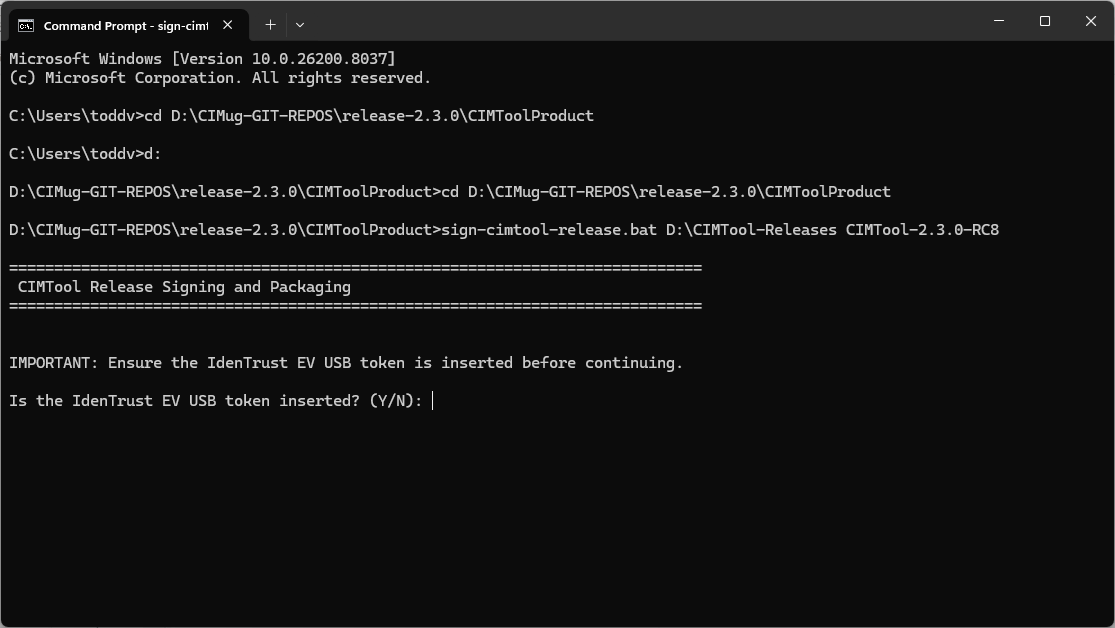
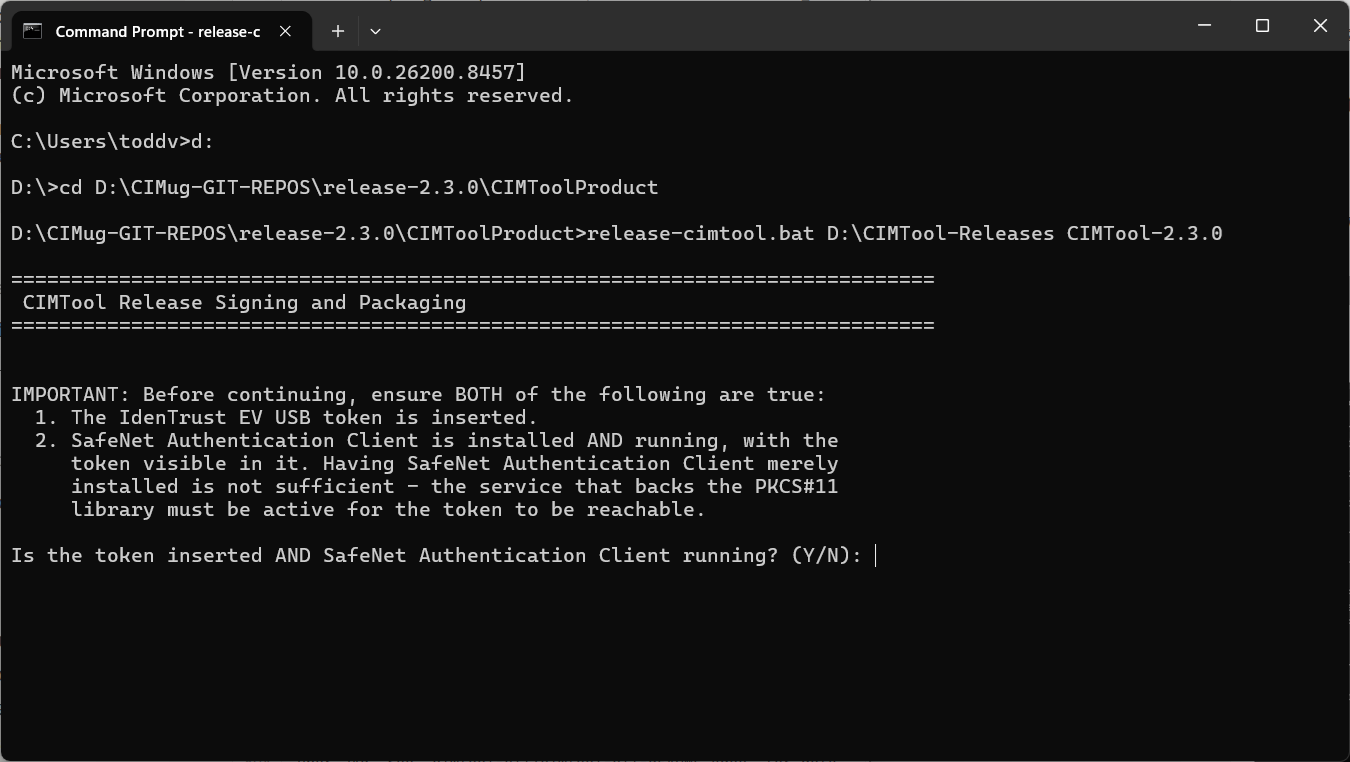
Dev doc updates related to code signing

diff --git a/dev-docs/Styles/cimtool-adoc.css b/dev-docs/Styles/cimtool-adoc.css
@@ -424,3 +424,27 @@ body.book #toc,body.book #preamble,body.book h1.sect0,body.book .sect1>h2{page-b
 #footer{background:none}
 #footer-text{color:rgba(0,0,0,.6);font-size:.9em}}
 @media amzn-kf8{#header,#content,#footnotes,#footer{padding:0}}
+/* ============================================================================
+   CIMug logo banner at the top of the left-hand TOC sidebar.
+   Applies only to the HTML 'toc: left' layout (#toc.toc2), which exists at the
+   >=768px breakpoint. The logo is embedded as a data URI so it resolves with no
+   dependency on the output path or on whether the stylesheet is linked/embedded.
+   The banner is sized as a percentage of the sidebar width with a locked aspect
+   ratio (padding-top = 80% width x 62.37/144.58), so it scales up and down with
+   the sidebar at every breakpoint instead of staying a fixed pixel size.
+   Centered within the sidebar.
+   ============================================================================ */
+@media screen and (min-width:768px){
+  #toc.toc2::before{
+    content:"";
+    display:block;
+    width:80%;
+    height:0;
+    padding-top:34.5%;
+    margin:0 0 1.25em;
[1 lines of base64/hex data omitted]
+    background-repeat:no-repeat;
+    background-position:left center;
+    background-size:contain;
+  }
+}

diff --git a/dev-docs/Includes/cimtool-cli/cimtool-cli-README.md b/dev-docs/Includes/cimtool-cli/cimtool-cli-README.md
@@ -17,7 +17,7 @@ This project is a **packaging-only** Maven module. It contains no Java source of
 its own. Its sole purpose is to:
 
 1. Collect `kena.jar` and `cimutil.jar` from a CIMTool Eclipse PDE product export
-2. Collect all vendored third-party JARs from `Kena/lib/`, `CIMUtil/lib/`, and `CIMToolPlugin/lib/`, together with the SLF4J 2.x / Logback provider bundles from the PDE product export `plugins/` directory
+2. Collect all vendored third-party JARs from `Kena/lib/` and `CIMUtil/lib/`
 3. Embed the XSLT builder stylesheets and Java builder configurations from `CIMUtil/builders/` at the classpath root
 4. Merge everything into a single executable uber JAR via Maven Shade
 
@@ -107,13 +107,13 @@ CIMTool/
 
 ## Dependency Management — Local File Repository
 
+> **Note — Keeping vendored dependencies in sync:** When a third-party dependency used by the CLI is added, removed, or upgraded, update `pom.xml`, both `install-jars.bat` and `install-jars.sh`, and regenerate `lib-repo/` together in the same change. See the [Vendored Library Change Checklist](../CIMToolProduct/CIMToolProduct-README.md#maintaining-vendored-third-party-libraries) in the CIMToolProduct documentation for the full repository-wide reference chain.
+
 ### Why a Local Maven File Repository?
 
-All of this project's dependencies are vendored JARs that live under `Kena/lib/`,
-`CIMUtil/lib/`, and `CIMToolPlugin/lib/` in the Eclipse PDE project tree, plus
-`kena.jar` and `cimutil.jar` and the SLF4J 2.x / Logback provider bundles
-(`slf4j-api`, `logback-core`, `logback-classic`) sourced from the CIMTool Eclipse
-PDE product export `plugins/` directory.
+All of this project's dependencies are vendored JARs that live under `Kena/lib/`
+and `CIMUtil/lib/` in the Eclipse PDE project tree, plus `kena.jar` and
+`cimutil.jar` sourced from the CIMTool Eclipse PDE product export.
 None of these are published to Maven Central.
 
 Maven's `system` scope (the most obvious way to reference local JARs) is formally
@@ -192,13 +192,12 @@ also install the vendor JARs:
   Install vendor JARs? (Y/N): _
 ```
 
-The script processes all 27 dependencies in four groups:
+The script processes all 26 dependencies in three groups:
 
 | Group                       | Count | Source                                      |
 | --------------------------- | ----- | ------------------------------------------- |
 | CIMTool core modules        | 2     | Eclipse PDE product export `plugins/` directory |
 | Kena/lib vendored JARs      | 9     | `Kena/lib/*.jar`                            |
-| SLF4J 2.x / Logback / JUL bridge | 4 | PDE export `plugins/` (slf4j-api, logback-core, logback-classic) + `CIMToolPlugin/lib/` (jul-to-slf4j) |
 | CIMUtil/lib vendored JARs   | 12    | `CIMUtil/lib/*.jar`                         |
 
 If a JAR file is not found at its expected path, the script prints `[MISSING]` and
@@ -281,8 +280,7 @@ Do not run `mvn clean package` directly for official releases. See
 | ----------------------- | ------------------------------------------------------------------------------------- |
 | `kena.jar` (from PDE export) | Kena RDF/OWL abstraction layer over Apache Jena              |
 | `cimutil.jar` (from PDE export) | Core CIMTool processing: profiles, XMI import, validation, XSLT transforms |
-| `Kena/lib/*.jar`        | Apache Jena 2.6.3, ARQ 2.8.4, IRI 0.8, Xerces 2.7.1, ICU4J 71.1, Lucene Core 2.3.1, StAX API 1.0.1, Woodstox 3.2.9, log4j-over-slf4j 2.0.17 (Log4j 1.x → SLF4J bridge) |
-| PDE export `plugins/` + `CIMToolPlugin/lib/` | slf4j-api 2.0.17, logback-classic 1.5.32, logback-core 1.5.32 (SLF4J 2.x logging provider), jul-to-slf4j 2.0.17 (JUL → SLF4J bridge) |
+| `Kena/lib/*.jar`        | Apache Jena 2.6.3, ARQ 2.8.4, Xerces 2.7.1, ICU4J 71.1, Lucene Core 2.3.1, StAX API 1.0.1, Woodstox 3.2.9, log4j-over-slf4j 2.0.17 (Log4j 1.x → SLF4J bridge) |
 | `CIMUtil/lib/*.jar`     | Saxon-HE 10.8, Easy-Rules 4.1.0, Apache POI 3.9, Jackcess 2.2.3, UCanAccess 4.0.4, HSQLDB 2.3.6, SQLite JDBC 3.45.2.0, Gson 2.8.6, commons-lang 2.6, commons-logging 1.1.3, xml-resolver 1.2 |
 | `CIMUtil/builders/`     | `builders.json`, `java-builders.json`, all XSLT stylesheets (`*.xsl`), `includes/`, `adoc-themes/` |
 | `CIMUtil/import-reports/` | AsciiDoc report templates (`asciidoc/`), PlantUML styles (`puml/`), schema config (`schema/`) |
@@ -485,7 +483,7 @@ The debug configuration enables the following:
 | `au.com.langdale.xmi` | `TRACE` | Per-attribute and per-class resolution detail in `parseAttributes()` and `parseClasses()`; CIM model interpretation stages in `CIMInterpreterImpl`; datatype inference in `UMLInterpreter`; JDBC connection errors in `EAPParser` and `QEAParser` |
 | `au.com.langdale.profiles.cl` | `DEBUG` | `CLISchemaParser` schema import events (orphaned classes, unused types) suppressed at `WARN` in production |
 | `net.ucanaccess`, `org.hsqldb` | `ERROR` | UCanAccess and HSQLDB reserved-word noise remains suppressed |
-| root | `WARN` | Keeps third-party library output (Saxon, Jena, etc.) quiet so the targeted `au.com.langdale.*` output is not buried in noise; change to `DEBUG` if broader framework-level diagnostics are needed |
+| root | `DEBUG` | All other CIMTool packages |
 
 
 ### Capturing log output to a file
@@ -572,10 +570,8 @@ a JAR came from a specific publisher and that its contents have not been tampere
 with since signing. The signature is mathematically bound to the exact byte contents
 of the original JAR file.
 
-**Why stripping is necessary and unavoidable:** When Maven Shade merges all 27
-contributing JARs — the 2 CIMTool core modules (`kena.jar` and `cimutil.jar`) plus
-the 25 vendored third-party JARs — into one uber JAR, the contents of each
-contributing JAR are extracted and repacked into
+**Why stripping is necessary and unavoidable:** When Maven Shade merges 25 JARs into
+one uber JAR, the contents of each contributing JAR are extracted and repacked into
 a new ZIP structure. This invalidates every original signature unconditionally —
 regardless of whether anything malicious occurred. There is no way to produce a
 valid shaded uber JAR that preserves the original signatures. The only two outcomes

diff --git a/dev-docs/Includes/CIMToolPlugin/CIMToolPlugin-README.md b/dev-docs/Includes/CIMToolPlugin/CIMToolPlugin-README.md
@@ -54,9 +54,16 @@ CIMToolPlugin/
 ├── js/                           ← Bundled JavaScript libraries (air-gap safe; no CDN dependency)
 │   ├── svg-pan-zoom.js           ← svg-pan-zoom 3.6.2 — pan/zoom for the PlantUML Real-Time Preview SVG view
 │   └── README.md                 ← Documents the bundled svg-pan-zoom version and source
-├── icons/                        ← Toolbar, view, wizard, and editor icons (PNG/BMP)
-├── graphics/                     ← SVG icon sources for profile diagram elements (e.g. `class.svg`, `aggregate.svg`, …)
-├── makeicons.sh                  ← Script to regenerate icon assets from the SVG sources
+├── builders/                     ← XSLT builder stylesheets and supporting resources
+│   └── includes/                 ← Shared XSLT includes used across builders
+├── import-reports/               ← AsciiDoc templates and stylesheets for the audit/compliance
+│   │                               report generated into the project's /Schema folder
+│   ├── asciidoc/
+│   │   ├── includes/
+│   │   ├── styles/
+│   │   └── themes/
+│   ├── puml/                     ← PlantUML templates for diagram generation
+│   └── schema/                   ← JSON/XML schemas for report configuration
 └── src/
     └── au/com/langdale/
         ├── cimtoole/             ← Main plugin package
@@ -115,9 +122,11 @@ It also depends on the following standard Eclipse platform bundles:
 | `org.eclipse.ui.themes` | Eclipse theming and colour/font registry — `IThemeManager`, `ColorRegistry`, `FontRegistry` for consistent UI styling |
 | `org.eclipse.core.filesystem` | Abstraction over file system access — `IFileStore`, `EFS`, used for file operations that span local and remote file systems |
 | `net.sourceforge.plantuml.library` | PlantUML rendering library — generates SVG diagrams from `.puml` source in the Real-Time Preview pipeline. Declared as a hard `Require-Bundle` dependency. |
-| `net.sourceforge.plantuml.eclipse` | PlantUML Eclipse integration bundle — provides the Eclipse-side PlantUML API, including the `PlantUmlSvgView` that backs the "CIMTool PlantUML Svg" view. Declared as a hard `Require-Bundle` dependency. |
+| `net.sourceforge.plantuml.eclipse` | PlantUML Eclipse integration bundle — provides the Eclipse-side PlantUML API. Declared as `resolution:=optional` since the feature degrades gracefully when absent. |
 
 ### Vendored Third-Party Libraries
+
+> **Note — Keeping vendored libraries in sync:** Adding, removing, or upgrading any library listed in this section must be mirrored in the same change across this project's `META-INF/MANIFEST.MF` (`Bundle-ClassPath`), `build.properties`, and `.classpath`, as well as the repository-wide reference chain. See the [Vendored Library Change Checklist](../CIMToolProduct/CIMToolProduct-README.md#maintaining-vendored-third-party-libraries) in the CIMToolProduct documentation.
 
 The following JARs are included directly in the plugin bundle via `Bundle-ClassPath`
 in `MANIFEST.MF` (not resolved from the target platform):
@@ -154,10 +163,10 @@ CIMToolPlugin contributes to the following Eclipse platform extension points via
 | `org.eclipse.core.resources.builders` | Registers `CIMBuilder` as an incremental project builder that runs automatically on workspace resource changes to produce all configured CIM profile output artefacts |
 | `org.eclipse.core.resources.natures` | Registers `CIMNature` as the Eclipse project nature that marks a project as a CIMTool project and associates it with `CIMBuilder` |
 | `org.eclipse.core.resources.markers` | Defines CIMTool-specific problem markers used to display build errors and validation warnings in the Eclipse Problems view and editor gutter |
-| `org.eclipse.core.contenttype.contentTypes` | Declares a file association binding the `xml-log` file extension to the platform `org.eclipse.core.runtime.text` content type. CIMTool's own editor file extensions (e.g. `.owl`, `.xmi`) are bound directly in the `org.eclipse.ui.editors` contribution rather than here |
+| `org.eclipse.core.contenttype.contentTypes` | Registers CIMTool file content types (e.g. `.xmi`, `.owl`, `.profile`) so Eclipse can associate them with the correct editors and handlers |
 | `org.eclipse.ui.perspectives` | Registers the CIMTool Perspective, CIMTool Browsing Perspective, and Validation Perspective — defines the initial layout of views, editors, and toolbars for each |
 | `org.eclipse.ui.editors` | Registers multi-page editors for CIM profiles, model artefacts, mappings, diagnosis output, and repair files, bound to their respective content types |
-| `org.eclipse.ui.views` | Registers the Project Model, Documentation, and Validation views, the Profile Preview view (`CurrentProfilePlantUmlSvgView` — the PlantUML Real-Time Preview), and the "CIMTool PlantUML Svg" view (backed by `net.sourceforge.plantuml.eclipse`'s `PlantUmlSvgView`) as Eclipse workbench views |
+| `org.eclipse.ui.views` | Registers the Project Model view, Documentation view, and Validation view as Eclipse workbench views |
 | `org.eclipse.ui.importWizards` | Registers import wizards for EA projects, XMI models, schemas, profiles, rulesets, spreadsheets, and transform builders under the CIMTool category |
 | `org.eclipse.ui.newWizards` | Registers new-resource wizards for creating CIMTool projects, profiles, mappings, rulesets, and other CIMTool artefact types |
 | `org.eclipse.ui.exportWizards` | Registers the schema export wizard under the CIMTool category |
@@ -261,9 +270,7 @@ defaults are set in `PlantUMLBuildersPreferencesPage`.
 
 `net.sourceforge.plantuml.library` is a hard `Require-Bundle` dependency —
 the buildlet calls the PlantUML API directly. `net.sourceforge.plantuml.eclipse`
-is also a hard `Require-Bundle` dependency; the real-time preview pipeline does not
-call it directly, but it provides the `PlantUmlSvgView` that backs the separate
-"CIMTool PlantUML Svg" view registered in `plugin.xml`.
+is `resolution:=optional` and is not used by the preview pipeline.
 
 
 

diff --git a/dev-docs/Includes/CIMUtil/CIMUtil-README.md b/dev-docs/Includes/CIMUtil/CIMUtil-README.md
@@ -23,7 +23,7 @@ The key functional areas are:
 
 - **XMI / EA project import** — parses Sparx Enterprise Architect `.eap`, `.eapx`, `.qea`, and `.qeax` project files (via UCanAccess / SQLite JDBC) and XMI exports into an RDF ontology graph via Kena
 - **Profile model** — the CIM profile object model (`ProfileClass`, `ProfileModel`, `HierarchyModel`) and profile manipulation operations (reorganize, refactor, rename, remap, repair)
-- **XSLT transform engine** — 32 XSLT builders in `builders/` that generate diverse output artefacts (XSD, RDFS, OWL, JSON Schema, HTML, RTF, SQL, Java, Scala, C#, Avro, LinkML, PlantUML, AsciiDoc, and more) from a CIM profile
+- **XSLT transform engine** — 34 XSLT builders in `builders/` that generate diverse output artefacts (XSD, RDFS, OWL, JSON Schema, HTML, RTF, SQL, Java, Scala, C#, Avro, LinkML, PlantUML, AsciiDoc, and more) from a CIM profile
 - **Validation** — CIM/XML and Turtle instance document validation against a profile using a Jena rules engine
 - **CIM Modelling Guide compliance** — an Easy Rules engine with 100+ rules implementing the IEC CIM Modelling Guidelines, used to generate the audit/compliance report
 - **CLI entry point** — `CIMToolCLI` and supporting classes in `profiles.cl` provide a headless command-line interface for profile transformation
@@ -39,11 +39,10 @@ CIMUtil/
 ├── build.properties                   ← PDE build configuration — source JAR, bin.includes
 ├── lib/                               ← Vendored third-party JARs (see Dependencies section)
 ├── builders/                          ← XSLT stylesheets and supporting resources
-│   ├── builders.json                  ← XSLT builder registry — maps the 32 registered XSLT builders to styles and output extensions
-│   ├── java-builders.json             ← JAVA builder registry — maps the 8 JAVA-based builders executed by cimtool-cli (see Builder Stylesheets section)
+│   ├── builders.json                  ← Builder registry — maps builder IDs to XSLT styles and output extensions
 │   ├── includes/                      ← Shared XSLT includes (e.g. namespace definitions)
 │   ├── adoc-themes/                   ← AsciiDoc theme files for report generation
-│   ├── *.xsl                          ← XSLT builder stylesheets — the 32 builders registered in builders.json plus additional experimental/legacy stylesheets that are not registered
+│   ├── *.xsl                          ← 34 XSLT builder stylesheets (see Builder Stylesheets section)
 │   └── default-copyright-template-*.txt ← Default copyright header templates
 ├── import-reports/                    ← AsciiDoc templates for the CIM Modelling Guide
 │   │                                     audit/compliance report generated into /Schema
@@ -144,6 +143,8 @@ CIMUtil has a single OSGi `Require-Bundle` dependency on another in-repository p
 
 ### Vendored Third-Party Libraries
 
+> **Note — Keeping vendored libraries in sync:** Adding, removing, or upgrading any library listed in this section must be mirrored in the same change across this project's `META-INF/MANIFEST.MF` (`Bundle-ClassPath`), `build.properties`, and `.classpath`, as well as the repository-wide reference chain. See the [Vendored Library Change Checklist](../CIMToolProduct/CIMToolProduct-README.md#maintaining-vendored-third-party-libraries) in the CIMToolProduct documentation.
+
 The following JARs are declared in `Bundle-ClassPath` in `MANIFEST.MF` and included in the plugin bundle:
 
 | Library | Version | Purpose |
@@ -167,11 +168,7 @@ Three additional Easy Rules extension JARs are physically present in `lib/` but 
 
 ## Builder Stylesheets
 
-The `builders/` directory contains 32 XSLT stylesheets registered in `builders.json`. Each transforms a CIM profile's internal XML representation into a specific output artefact format. The builders are executed by Saxon HE 10.8 and are all XSLT 3.0 compliant unless otherwise noted. For detailed documentation on individual builders, their NTE (Name/Type/Extension) settings, and usage guidance see the [CIMTool Builders Library](https://cimtool-builders.ucaiug.io/).
-
-The directory also contains additional experimental and legacy `.xsl` stylesheets that are not registered in `builders.json`. These are not active builders and are not documented here.
-
-A second registry, `java-builders.json`, declares 8 **JAVA**-type builders that are implemented directly by CIMUtil Java generator classes rather than by XSLT stylesheets. They produce the OWL, RDFS, Turtle, and canonical profile-XML serializations and are registered for execution by `cimtool-cli`; see the [cimtool-cli README](../cimtool-cli/cimtool-cli-README.md) for details. Because they are not XSLT, they are not listed in the stylesheet table below.
+The `builders/` directory contains 34 XSLT stylesheets registered in `builders.json`. Each transforms a CIM profile's internal XML representation into a specific output artefact format. The builders are executed by Saxon HE 10.8 and are all XSLT 3.0 compliant unless otherwise noted. For detailed documentation on individual builders, their NTE (Name/Type/Extension) settings, and usage guidance see the [CIMTool Builders Library](https://cimtool-builders.ucaiug.io/).
 
 | Stylesheet | Output Extension | Description |
 | --- | --- | --- |
@@ -183,7 +180,9 @@ A second registry, `java-builders.json`, declares 8 **JAVA**-type builders that 
 | `profile-doc-rtf.xsl` | `.rtf` | Generates a Microsoft Word compatible RTF (Rich Text Format) document containing complete documentation for all classes, attributes, and associations in a profile. The output can be opened directly in Microsoft Word for further editing or distribution. |
 | `json-schema-draft-07.xsl` | `.draft-07.schema.json` | Generates a JSON Schema compliant with the draft [IEC 62361-104](https://webstore.iec.ch/publication/67199) standard (CIM Profiles to JSON Schema Mapping). Targets JSON Schema draft-07 specification. Suitable for use with JSON Schema validators and code generation tools that support draft-07. |
 | `json-schema-draft-2020-12.xsl` | `.draft-2020-12.schema.json` | Generates a JSON Schema compliant with the draft IEC 62361-104 standard targeting the JSON Schema draft-2020-12 specification. Use this builder when your toolchain supports the newer 2020-12 vocabulary. |
-| `apache-avro-schema-beta.xsl` | `.beta.avsc` | Generates an Apache Avro schema for a profile, enabling compact binary serialization of CIM instance data in high-throughput data pipeline contexts. Suitable for use with Kafka, Spark, and other Avro-compatible data platforms. |
+| `json-ld-context-json-beta.xsl` | `.context-json-beta.jsonld` | Generates a JSON-LD context document derived from a JSON Schema profile, enabling RDF-compatible JSON serialization of CIM instance data. Beta release targeting IEC 62361-104 JSON-LD serialization requirements. |
+| `json-ld-context-rdfs.xsl` | `.context-rdfs-beta.jsonld` | Generates a JSON-LD context document derived from an RDFS profile, enabling RDF-compatible JSON serialization of CIM instance data. Beta release targeting IEC 62361-104 JSON-LD serialization requirements. |
+| `apache-avro-schema.xsl` | `.avsc` | Generates an Apache Avro schema for a profile, enabling compact binary serialization of CIM instance data in high-throughput data pipeline contexts. Suitable for use with Kafka, Spark, and other Avro-compatible data platforms. |
 | `linkml.xsl` | `.linkml.yaml` | Generates a [LinkML](https://linkml.io/) schema for a profile in YAML format. LinkML is a semantic modelling language being explored in IEC 61970-501 Ed 2.0 as a potential semantic representation for the CIM. The generated schema includes `ea_guid` for direct traceability to Sparx EA UML elements. |
 | `jpa.xsl` | `.java` | Legacy generator for generating a Java source file containing JPA (Java Persistence API) entity classes compatible with JPA 2.2 and earlier. The generated entities are designed to correlate directly to the SQL database schema produced by the `sql.xsl` generator. The defined classes can be used in Java applications for persisting CIM profile instances to a relational database via any JPA 2.2 compliant ORM provider. The legacy generator does not support CIM Compound classes and has been retained for backwards compatibility. |
 | `jpa-rdfs.xsl` | `.jpa-rdfs.java` | Generates a Java source file containing JPA (Java Persistence API) entity classes compatible with JPA 3.1. The generated entities are designed to correlate directly to the SQL database schema produced by the `sql-rdfs-ansi92.xsl` generator. The defined classes can be used in Java applications for persisting CIM profile instances to a relational database via any JPA 3.1 compliant ORM provider. Supports CIM Compound classes and is the recommended replacement for the legacy `jpa.xsl` builder. |
@@ -223,7 +222,7 @@ The `profiles/cl/` package provides the standalone command-line interface used b
 | Class | Role |
 | --- | --- |
 | `CIMToolCLI` | Main entry point — initialises logging, delegates to `run()` |
-| `CLIOptions` | Parses and validates command-line arguments (`--project-dir`, `--profile`, `--builder`, `--xslt`, `--output`, `--output-ext`, `--copyright-defaults`, `--copyright-single-line`, `--copyright-multi-line`, `--help`, `--version`, `--list-builders`) |
+| `CLIOptions` | Parses and validates command-line arguments (`--project-dir`, `--builder`, `--output`, `--schema`, `--namespace`, `--help`, `--version`, `--list-builders`) |
 | `CLIProfileTransformer` | Orchestrates the headless transform pipeline — loads schema, loads profile, runs the selected builder stylesheet via Saxon |
 | `CLISchemaParser` | Headless XMI/EA project schema parser — wraps `EAPParser` / `QEAParser` for use outside the Eclipse workspace |
 | `CLISettings` | Adapts the CLI project directory structure to the `Settings` interface expected by the profile model |

diff --git a/dev-docs/Includes/Kena/Kena-README.md b/dev-docs/Includes/Kena/Kena-README.md
@@ -121,6 +121,8 @@ but it depends on none of them.
 
 ### Vendored Third-Party Libraries
 
+> **Note — Keeping vendored libraries in sync:** Adding, removing, or upgrading any library listed in this section must be mirrored in the same change across this project's `META-INF/MANIFEST.MF` (`Bundle-ClassPath`), `build.properties`, and `.classpath`, as well as the repository-wide reference chain. See the [Vendored Library Change Checklist](../CIMToolProduct/CIMToolProduct-README.md#maintaining-vendored-third-party-libraries) in the CIMToolProduct documentation.
+
 Kena bundles Apache Jena 2.6.3 and all of its required dependencies, declared
 in `Bundle-ClassPath` in `MANIFEST.MF` and included via `build.properties`:
 